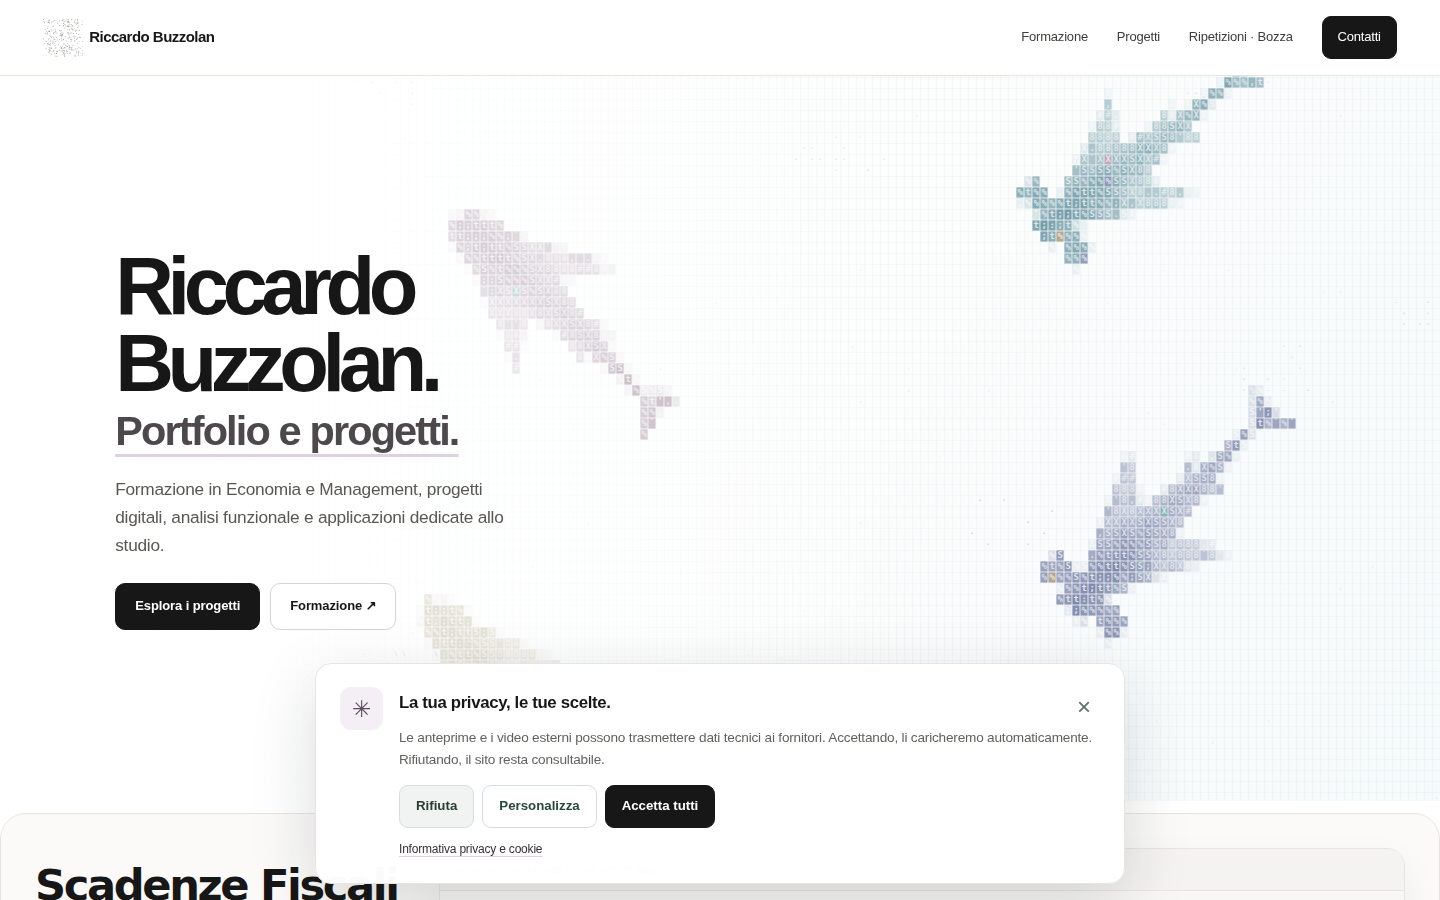
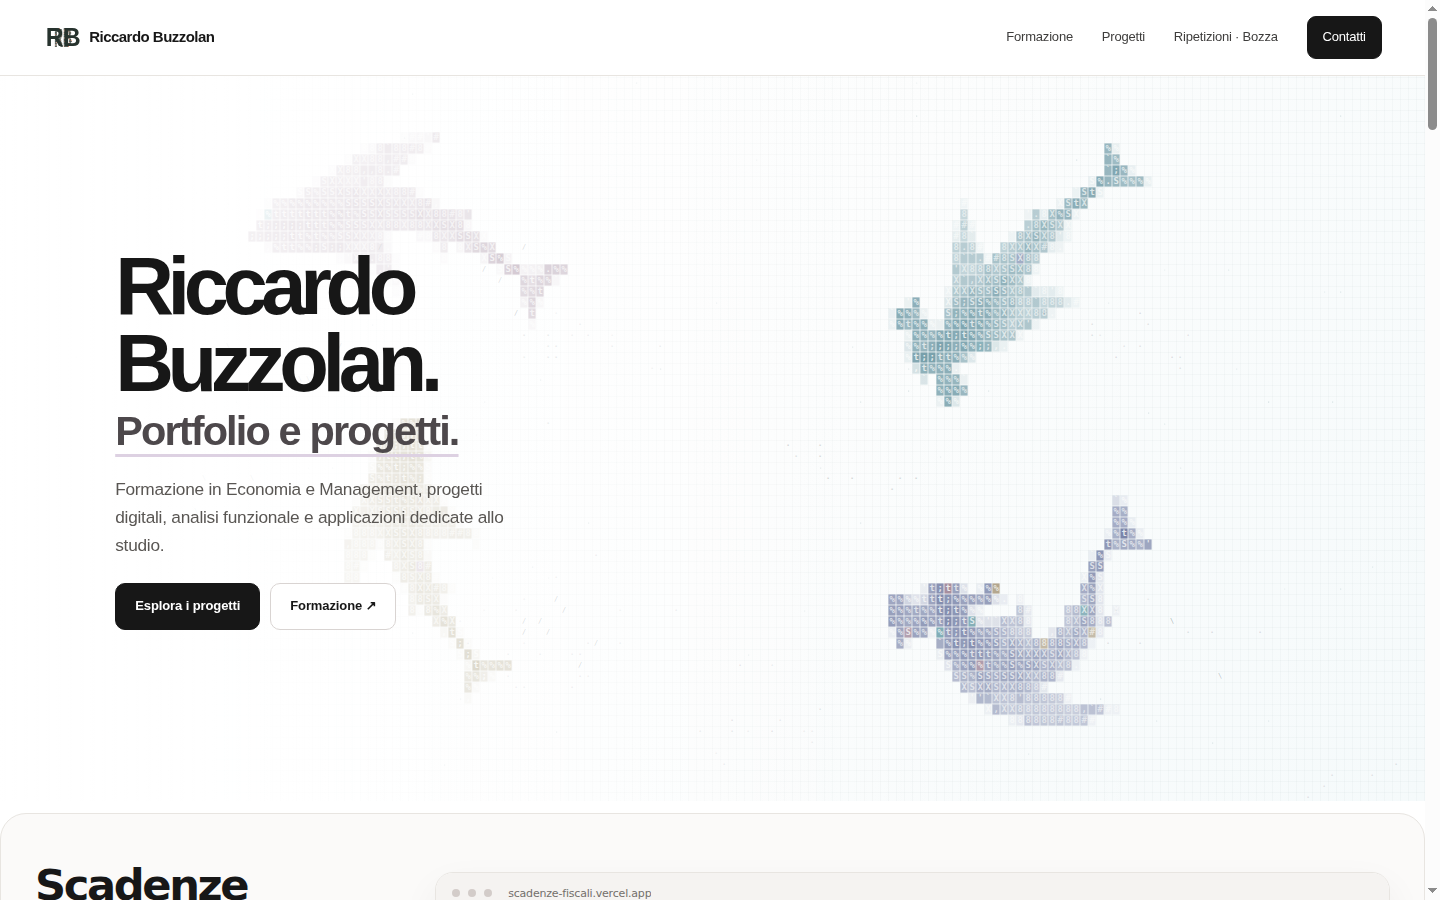
Migliora screenshot desktop e mobile della documentazione (#41)
* Prepara acquisizione screenshot browser

* Acquisisce screenshot senza banner privacy

* Fix Node execution for screenshot script

* Aggiorna screenshot reali desktop e mobile

* Documenta anche la versione mobile del sito

* Rimuove lo script temporaneo di acquisizione immagini

* Rimuove lo script temporaneo di acquisizione immagini

---------

diff --git a/README.md b/README.md
@@ -8,6 +8,13 @@ Sito personale con informazioni sulle ripetizioni a Schio e online, una selezion
 
 ![Schermata desktop reale del sito pubblicato](docs/images/screenshot-desktop.png)
 
+<details>
+<summary>Screenshot mobile</summary>
+
+![Schermata mobile del sito](docs/images/screenshot-mobile.png)
+
+</details>
+
 ## Come funziona
 
 ![Schema del flusso principale](docs/images/flusso.svg)
